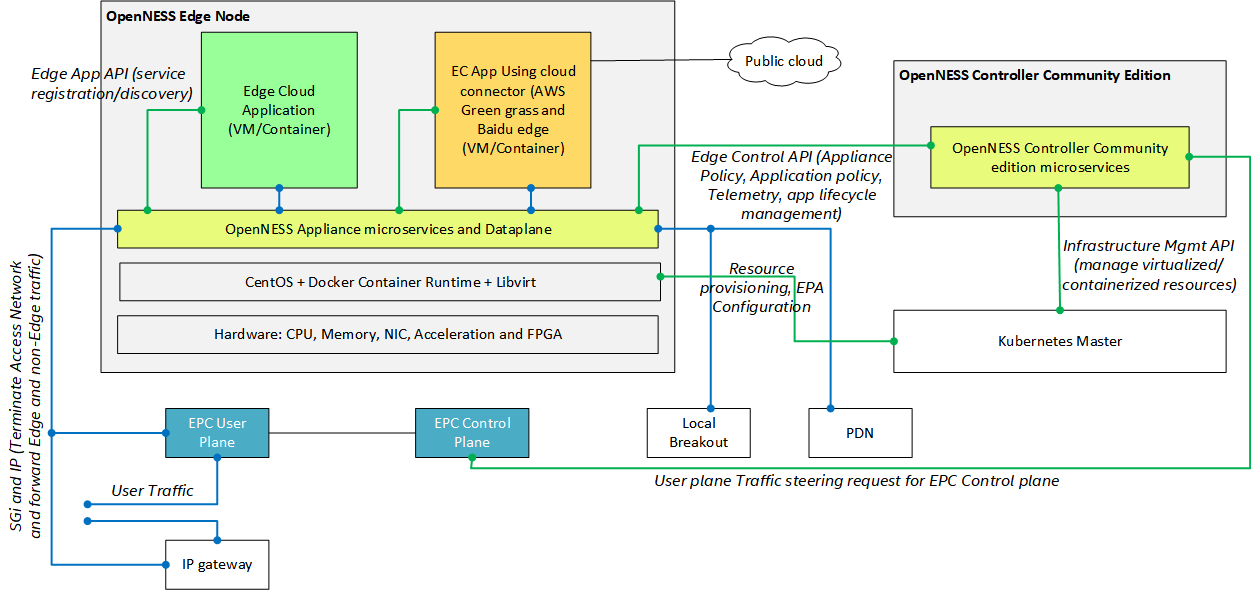
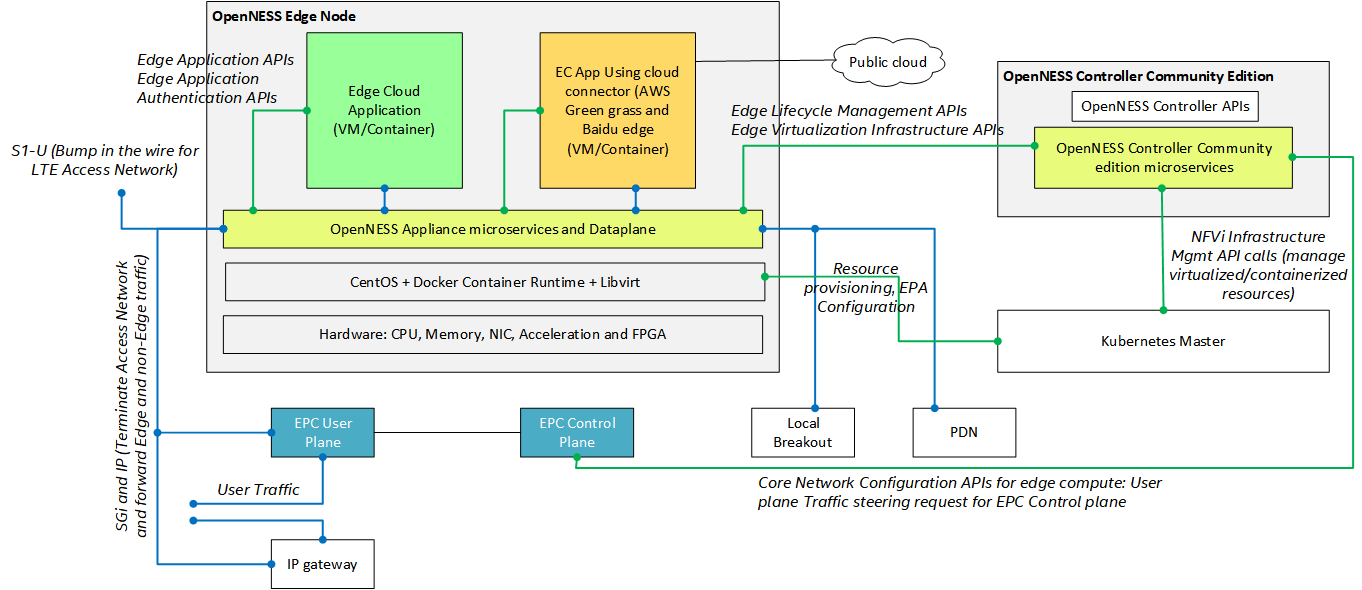
review updates

diff --git a/architecture.md b/architecture.md
@@ -38,10 +38,10 @@ OpenNESS based edge compute reference stack consists of one or more OpenNESS Edg
 
 The architecture of the OpenNESS Edge compute reference stack is described in greater detail in following subsections of this document.
 
-OpenNESS reference edge stack combines the NFV infrastructure optimizations for Virtual machine and Container cloud on COTS Architecture (CPU,Memory,IO and Acceleration) from various opensource projects with right amount of Edge compute specific APIs and network abstraction on to provide a unique and one window development solution for edge compute. 
+OpenNESS reference edge stack combines the NFV infrastructure optimizations for Virtual machine and Container cloud on COTS Architecture (CPU,Memory,IO and Acceleration) from various opensource projects with essential amount of Edge compute specific APIs and network abstraction on to provide a unique and one-stop-shop development solution for edge compute. 
 
 ### OpenNESS Controller Community Edition
-OpenNESS Controller Community edition consists of set of microservices that implement the following functionality to enable edge compute node and application management. Community edition implements the right set of functions needed for a reference Edge compute controller.
+OpenNESS Controller Community edition consists of set of microservices that implement the following functionality to enable management of the edge compute node and applications it hosts. Community edition implements the right set of functions needed for a reference Edge compute controller.
 - Web UI front end: HTML5 based web frontend for managing edge compute.
 - User account management: Create administrator user for the edge compute management. 
 - Edge compute application image repository: Provide edge compute application image (VM/Container image) upload capability to the controller. 
@@ -53,22 +53,22 @@ OpenNESS Controller Community edition consists of set of microservices that impl
   - Deploy edge compute applications from the image repository 
   - Configure the Edge compute application specific Traffic policy 
   - Configure the Edge compute application specific DNS policy 
-- Edge virtualization infrastructure management: Use the existing industry standard NFV infrastructure API to stacks like Kubernetes or Libvert or Docker to start and stop edge compute applications on the Edge node
+- Edge virtualization infrastructure management: Invoke industry standard NFV infrastructure APIs for stacks like Kubernetes, Libvert or Docker to start and stop edge compute applications on the Edge node
 - Telemetry: Get basic edge compute microservices telemetry from connected Edge nodes. 
 
 Most of the microservices on controller are written in Go lang. OpenNESS Controller Community Edition addresses the essential functionalities of Multi-access edge orchestrator and MEC Platform manger as defined in the ETSI MEC Multi-access Edge Computing (MEC): Framework and Reference Architecture. 
 
 ### OpenNESS Edge Node
-OpenNESS Edge Node consists of set of microservices that implement the following functionality to enable execution of edge compute applications natively on the edge node or forward required user traffic to application running on connected local breakout. 
-- Edge Application Enrolling: During the first boot connect to the designated OpenNESS Controller Community Edition and request for enrolling.This functionality is implemented in the ELA (Edge Lifecycle Agent) microservice and is implemented in Go lang. As part of enrolling Edge node is provided TLS based certificate. Which is used for further API communication. 
+OpenNESS Edge Node consists of set of microservices that implement the following functionality to enable execution of edge compute applications natively on the edge node or forward user traffic to application running on connected local breakout. 
+- Edge Application Enrolling: During initial boot-up, the Edge Node connects to the designated OpenNESS Controller CE, and send an enrolment request. This functionality is implemented in the ELA (Edge Lifecycle Agent) microservice and is implemented in Go lang. As part of enrolling Edge node is provided TLS based certificate. Which is used for further API communication. 
 
 ![OpenNESS Edge Node Authentication](arch-images/openness_nodeauth.png)
 
-- Edge node interface configuration: During the first boot sent the map of the existing Network interfaces to the Controller to be configured as Upstream, Downstream or local breakout. This functionality is implemented in the ELA microservice. 
+- Edge node interface configuration: During initial boot-up, the Edge Node sends a map of the existing Network interfaces to the Controller to be configured as Upstream, Downstream or local breakout. This functionality is implemented in the ELA microservice. 
 - DNS service: Support DNS resolution and forwarding services for the application deployed on the edge compute. DNS server is implemented based on Go DNS library. 
 - Edge Node Virtualization infrastructure: Receive commands from the controller/NFV infrastructure mangers to start and stop Applications. This functionality is implemented in the EVA (Edge virtualization Agent) microservice and is implemented in Go lang. 
 - Edge application traffic policy: Interface to set traffic policy for application deployed on the edge node. This functionality is implemented in the EDA (Edge Dataplane Agent) microservice and is implemented in Go lang. 
-- Dataplane: Provide application specific traffic steering towards the Edge compute application running on the edge node or on connected Local break out port. Note Dataplane NTS (Network Transport Service) is running on every Edge node instance. It is implemented in C lang using DPDK for high performance IO.
+- Dataplane Service: Steers traffic towards applications running on the Edge Node or the Local Break-out Port, utilizing the Data Plane NTS (Network Transport Service), which runs on every Edge Node. It is implemented in C lang using DPDK for high performance IO.
   - Provide Reference ACL based Application specific packet tuple filtering 
   - Provide reference GTPU base packet learning for S1 deployment 
   - Provide reference Simultaneous IP and S1 deployment 
@@ -81,18 +81,31 @@ OpenNESS Edge Node consists of set of microservices that implement the following
   - Implement Scatter and Gather in upstream and downstream 
 - Application Authentication: Ability to authenticate Edge compute application deployed from Controller so that application can avail/call Edge Application APIs. Only application that intends to call the Edge Application APIs need to be authenticated. TLS certificate based Authentication is implemented. 
 
+Apps on the Edge Node can be classified into:  
+- Producer Application: OpenNESS Producer application are edge compute application that provide services to other applications running on the edge compute platform. E.g. Location Services, Mapping Services, Transcoding Services, etc. 
+- Consumer Application: OpenNESS Consumer application are edge compute application that serve end users traffic directly. E.g. CDN App, Augmented Reality App, VR Application, Infotainment Application, etc. 
+
 ![OpenNESS Application Authentication](arch-images/openness_appauth.png)
 
-- Edge Application API support: Provide API endpoint for edge applications to avail edge services. This functionality is implemented in the EAA (Edge Application Agent) microservice and is implemented in Go lang.APIs are classified into:
-  - Edge Service Activation/Deactivation
-  - Edge Service Discovery 
-  - Edge Service Subscription/Unsubscription 
-  - Edge Service Notification update (using web socket)
-  - Edge Service data update 
-  - Edge Service list subscription 
-- Edge Node telemetry: Utilizing the rsyslog all the OpenNESS microservices send the telemetry update which includes the logging and packet forwarding statistics data from dataplane. 
+- Edge Application API support: Provide API endpoint for edge applications to avail edge services. This functionality is implemented in the EAA (Edge Application Agent) microservice and is implemented in Go lang. APIs are classified into:
+  - Edge Service Activation/Deactivation: This API endpoint enables a Producer App on the Edge node to register and activate on the Edge Node. After this API execution the Producer App will be discoverable to Consumer Apps on the Edge Node. 
+    - E.g. Location Service Producer app will call this API first after being deployed from the controller. 
+  - Edge Service Discovery: This API Endpoint enables Consumer application to discover all the active Producer Applications on the Edge Node. 
+    - E.g. A CDN App will be able to discover Location Service Application on the Edge Node. 
+  - Edge Service Subscription/Unsubscription : This API Endpoint enables Consumer application to subscribe to Producer application service and notification updates. 
+    - E.g. A CDN application can subscribe to the Location Service application and Notification update from the service. 
+  - Edge Service Notification update (using web socket): This is a Web socket connection that needs to be created by a Consumer Application which intends to subscribe to services from Producer Applications. This websocket will be used for push-notification when there is update from Producer Application. 
+    - E.g. Location update is sent as Push Notification update to CDN Application. 
+  - Edge Service data update:  This API endpoint enables Producer Application to publish the data to the Edge Node when it has a update to its service. 
+    - E.g. Location Service Producer App publishes Location update of a user to the Edge Node. 
+  - Edge Service list subscription: This API endpoint allows Consumer Application to get the list of Producer Application services it has availed.  
+    -E.g. CDN Application can call this API to check if it has subscribed to Location and Transcoding services. 
+- Edge Node telemetry: Utilizing the rsyslog all the OpenNESS microservices send the telemetry update which includes the logging and packet forwarding statistics data from dataplane. This is also the mechanism that is encouraged for OpenNESS users for Debugging and Troubleshooting. 
 
-Resource usage: OpenNESS Edge node run all the non-critical/non-realtime microservices on the OS core, Dataplane NTS and DPDK PMD thread would need dedicated core/thread for high performance. Since DPDK library is used for the dataplane implementation 1G/2M hugepages support is required on the host. 
+OpenNESS Edge Node Resource usage: 
+- All non-critical/non-realtime microservices OpenNESS Edge node execute OS core typically Core 0.
+- Dataplane NTS and DPDK PMD thread would need dedicated core/thread for high performance. 
+  - DPDK library is used for the dataplane implementation 1G/2M hugepages support is required on the host. 
 
 #### Edge Compute Applications: Native
 OpenNESS supports execution of application on the Edge node as a VM/Container instance. This is typically the case when customers are looking for high density edge compute platforms with expectation of resource pooling across Edge Applications and services. OpenNESS supports both native edge compute apps and IOT Gateways to run as edge compute applications or services co-existing on the same platform and sharing resources. 
